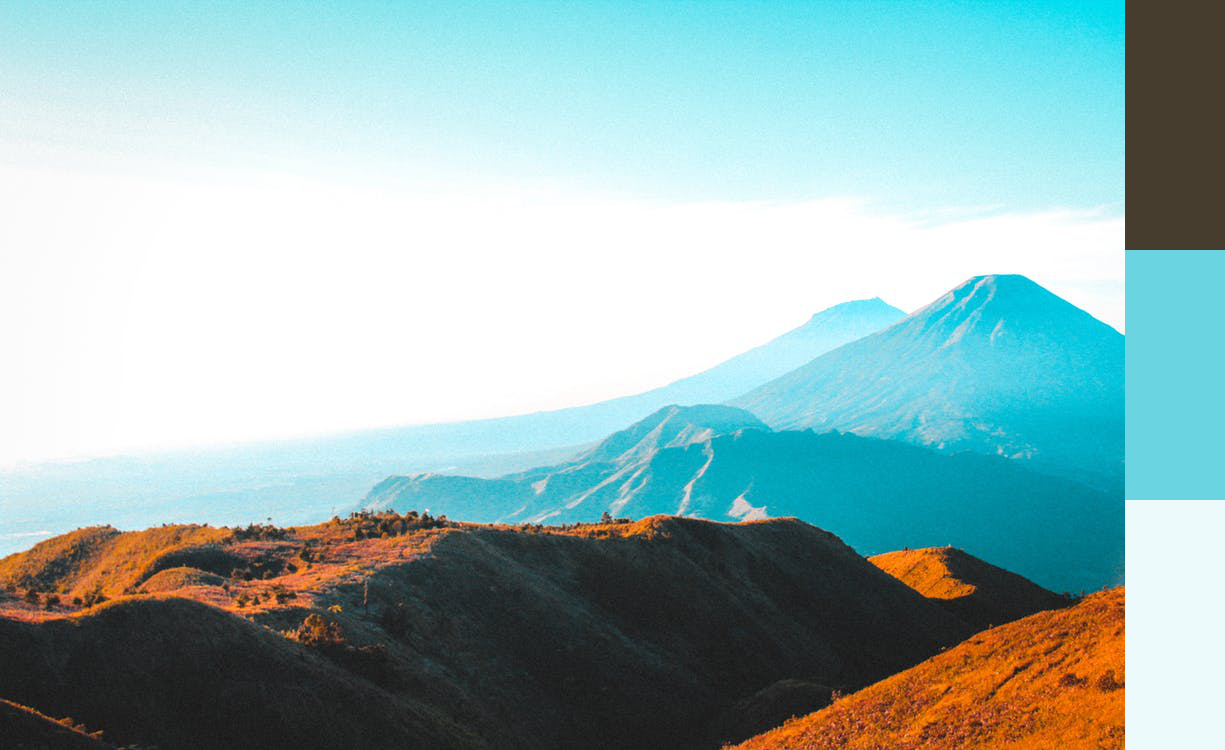
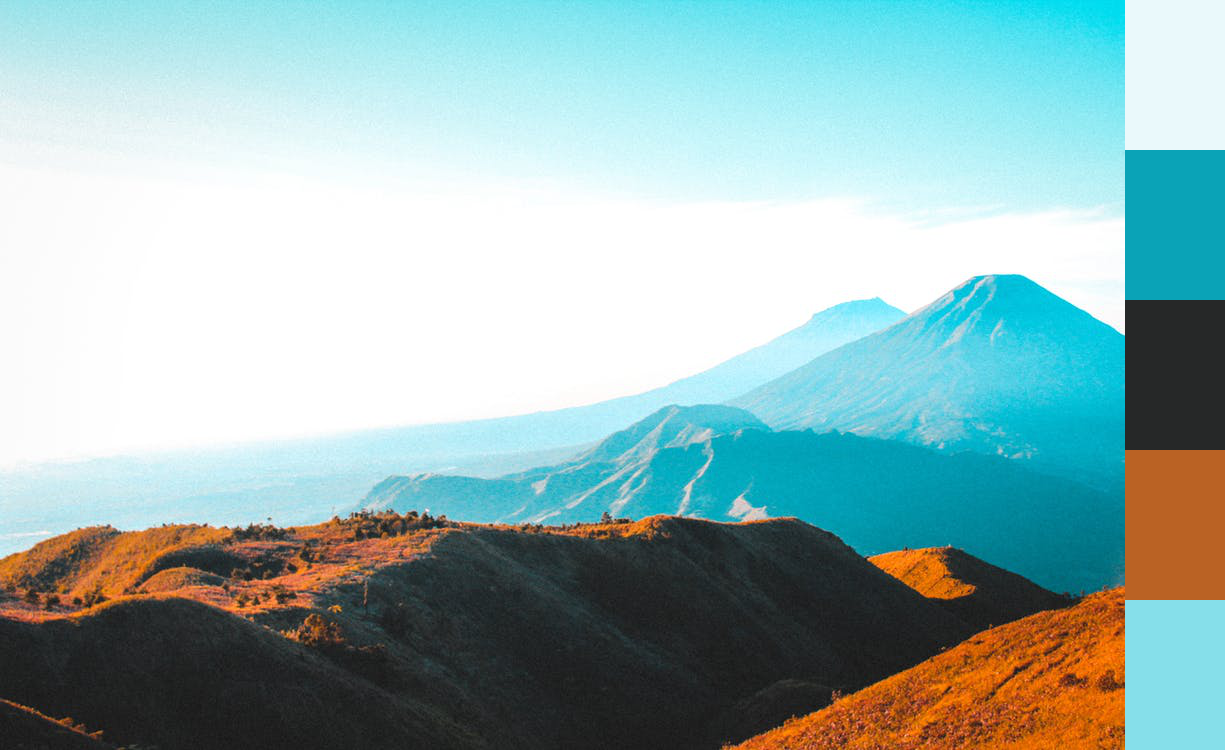
Issue #1: Done

Changed region(s): [[0.8996, 0.0, 1.0, 1.0]]

diff --git a/img2color.py b/img2color.py
@@ -28,7 +28,7 @@ def med(cluster, k):
 	return [r,g,b]
 
 
-def assign_cluster(im, k, cluster, width, height):
+def assign_cluster(im, k, cluster, width, height, k_len):
 	minimum = len(k)
 	for i in range(0, width):
 		for j in range(0, height):
@@ -41,39 +41,35 @@ def assign_cluster(im, k, cluster, width, height):
 					minimum = l
 			cluster[minimum].append(im.getpixel((i, j)))
 
-def kmeans(im):
+def med_ks(k, cluster):
+	for i in range(0, len(k)):
+		k[i] = med(cluster[i], k[i])
+
+def kmeans(im, k_len):
 	width, height = im.size
 	k = []
 	cluster = []
 	cluster1 = []
 	cluster2 = []
 	cluster3 = []
-	for i in range(0,3):
+	for i in range(0,k_len):
 		k.append(im.getpixel((random.randint(0,width), random.randint(0,height))))
 		cluster.append([])
 		cluster1.append([])
 		cluster2.append([])
 		cluster3.append([])
 	print k
-	assign_cluster(im, k, cluster, width, height)
-	k[0] = med(cluster[0], k[0])
-	k[1] = med(cluster[1], k[1])
-	k[2] = med(cluster[2], k[2])
+	assign_cluster(im, k, cluster, width, height, k_len)
+	med_ks(k, cluster)
 	print k
-	assign_cluster(im, k, cluster1, width, height)
-	k[0] = med(cluster1[0], k[0])
-	k[1] = med(cluster1[1], k[1])
-	k[2] = med(cluster1[2], k[2])
+	assign_cluster(im, k, cluster1, width, height, k_len)
+	med_ks(k, cluster1)
 	print k
-	assign_cluster(im, k, cluster2, width, height)
-	k[0] = med(cluster2[0], k[0])
-	k[1] = med(cluster2[1], k[1])
-	k[2] = med(cluster2[2], k[2])
+	assign_cluster(im, k, cluster2, width, height, k_len)
+	med_ks(k, cluster2)
 	print k
-	assign_cluster(im, k, cluster3, width, height)
-	k[0] = med(cluster3[0], k[0])
-	k[1] = med(cluster3[1], k[1])
-	k[2] = med(cluster3[2], k[2])
+	assign_cluster(im, k, cluster3, width, height, k_len)
+	med_ks(k, cluster3)
 	print k
 	return k
 
@@ -82,22 +78,25 @@ def kmeans(im):
 def main():
 	parser = argparse.ArgumentParser(description='Find main colors in a given image.')
 	parser.add_argument("image", help="Image to be processed")
+	parser.add_argument("-k",type=int, help="Custom K for KMeans algorithm")
 	parser.add_argument("--output-format",type=str, choices=['image-palette', 'html-color-code'], help="Output-format")
 	args = parser.parse_args()
 	print args
 	image = Image.open(args.image)
-	k = kmeans(image)
+	k_len = 0
+	if(args.k == None):
+		k_len = 3
+	else:
+		k_len = args.k
+	k = kmeans(image, k_len)
 	if(args.output_format == "image-palette"):
 		img = Image.new('RGB', (image.size[0]+100, image.size[1]))
 		img.paste(image)
-		img0 = Image.new('RGB', (100, image.size[1]/3), color = tuple(k[0]))
-		img1 = Image.new('RGB', (100, image.size[1]/3), color = tuple(k[1]))
-		img2 = Image.new('RGB', (100, image.size[1]/3), color = tuple(k[2]))
-		
-		img.paste(img0, box=(image.size[0], 0))
-		img.paste(img1, box=(image.size[0], image.size[1]/3))
-		img.paste(img2, box=(image.size[0], 2*image.size[1]/3))
-
+		imgs = []
+		for k_i in range(0, k_len):
+			imgs.append(Image.new('RGB', (100, image.size[1]/k_len), color = tuple(k[k_i])))
+		for k_i in range(0, k_len):
+			img.paste(imgs[k_i], box=(image.size[0], k_i*(image.size[1]/k_len)))
 		img.save(args.image +"_pallette.png", "PNG")	
 	else:
 		print "#%02x%02x%02x" % (k[0][0],k[0][1],k[0][2])

diff --git a/README.md b/README.md
@@ -23,12 +23,12 @@ optional arguments:
 ## Examples
 
 ### Testimage
-This image is used for Tests. It was provided by https://www.pexels.com .
+This image is used for tests. It was provided by https://www.pexels.com .
 ![test image](https://raw.githubusercontent.com/nicolas93/img2color/master/testimage.jpeg)
 
 
-### Color-Palette output:
-![test image with color-palette](https://raw.githubusercontent.com/nicolas93/img2color/master/testimage.jpeg_pallette.png)
+### Color-Palette output(k=5):
+![test image with color-palette](https://raw.githubusercontent.com/nicolas93/img2color/master/testimage.jpeg_pallette_k5.png)
 
 ### html-color-code
 ```
